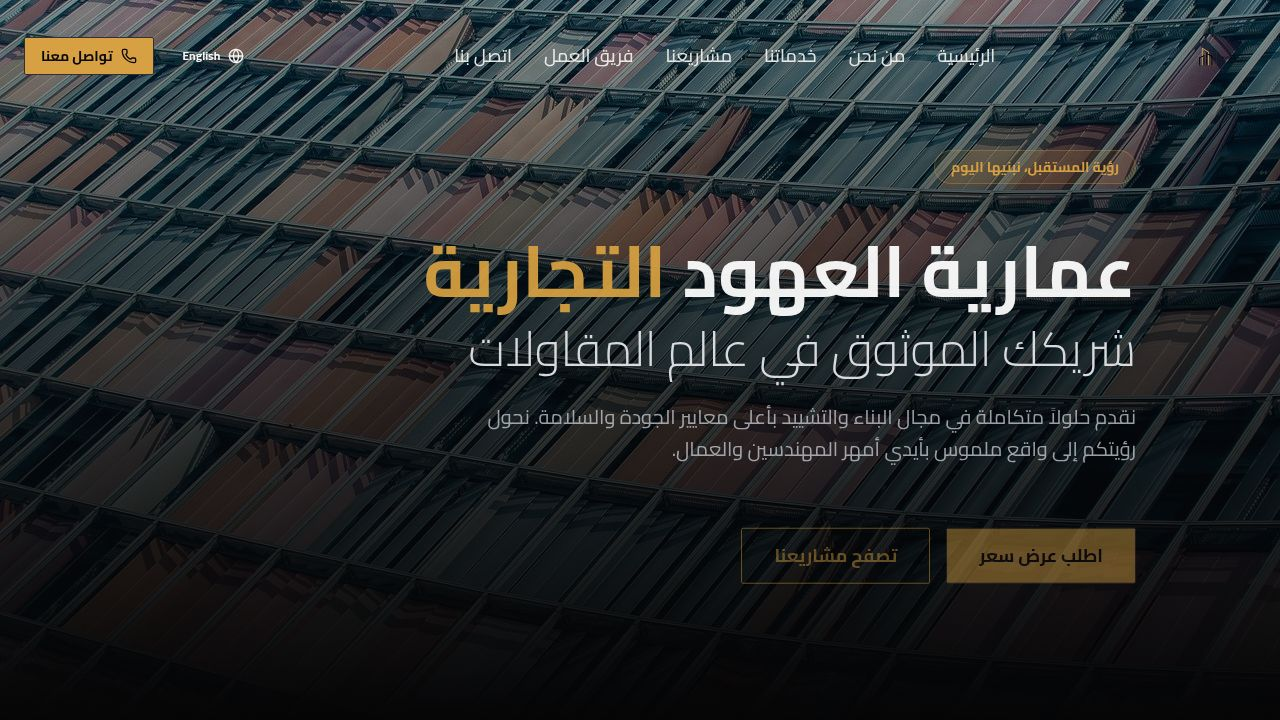
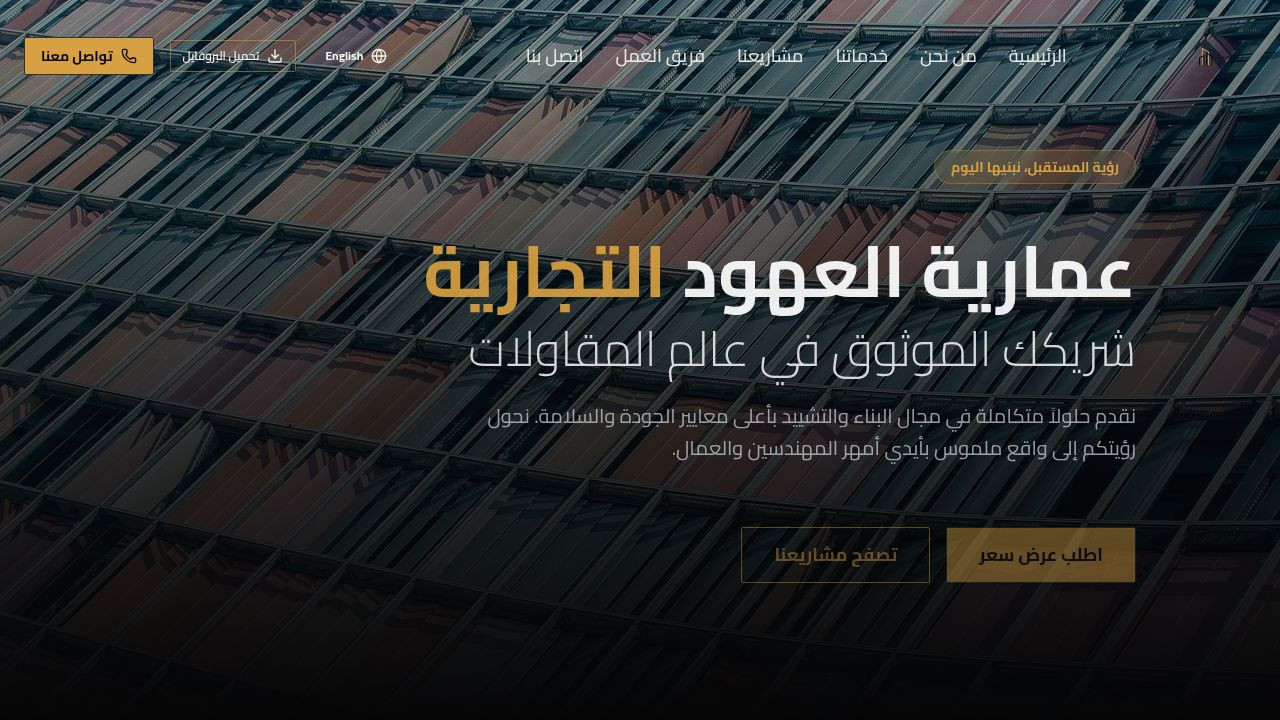
Add ability to download the homepage as a company profile PDF
Adds `html2canvas` and `jspdf` dependencies, a "Download Profile" button to the Navbar, and a translation key for the button text. The button triggers a function to convert the current page into a PDF and download it.

Replit-Commit-Author: Agent
Replit-Commit-Session-Id: ab91905b-dc68-4074-858b-e6f5ec65a023
Replit-Commit-Checkpoint-Type: full_checkpoint
Replit-Commit-Event-Id: 5b88438b-7357-4f75-86d3-2ad259f0ce1a
Replit-Commit-Screenshot-Url: https://storage.googleapis.com/screenshot-production-us-central1/d3a5dc82-f05b-4e55-bc7f-5faa2f4ff8f8/ab91905b-dc68-4074-858b-e6f5ec65a023/1hrhwKy
Replit-Helium-Checkpoint-Created: true

diff --git a/client/src/components/Navbar.tsx b/client/src/components/Navbar.tsx
@@ -1,14 +1,17 @@
 import { useState, useEffect } from "react";
 import { Link } from "wouter";
-import { Menu, X, Phone, Globe } from "lucide-react";
+import { Menu, X, Phone, Globe, Download, Loader2 } from "lucide-react";
 import { Button } from "@/components/ui/button";
 import { cn } from "@/lib/utils";
 import logo from "@assets/عمارية_العهود_(2)_1764834256699.png";
 import { useLanguage } from "@/lib/language-context";
+import html2canvas from "html2canvas";
+import jsPDF from "jspdf";
 
 export default function Navbar() {
   const [isScrolled, setIsScrolled] = useState(false);
   const [mobileMenuOpen, setMobileMenuOpen] = useState(false);
+  const [isGeneratingPDF, setIsGeneratingPDF] = useState(false);
   const { language, setLanguage, t } = useLanguage();
 
   useEffect(() => {
@@ -30,6 +33,49 @@ export default function Navbar() {
 
   const toggleLanguage = () => {
     setLanguage(language === 'ar' ? 'en' : 'ar');
+  };
+
+  const handleDownloadPDF = async () => {
+    setIsGeneratingPDF(true);
+    try {
+      const element = document.body;
+      const canvas = await html2canvas(element, {
+        scale: 2, // Higher resolution
+        useCORS: true, // For cross-origin images
+        logging: false,
+        windowWidth: element.scrollWidth,
+        windowHeight: element.scrollHeight
+      });
+
+      const imgData = canvas.toDataURL("image/png");
+      const pdf = new jsPDF({
+        orientation: "portrait",
+        unit: "mm",
+        format: "a4",
+      });
+
+      const imgWidth = 210; // A4 width in mm
+      const pageHeight = 297; // A4 height in mm
+      const imgHeight = (canvas.height * imgWidth) / canvas.width;
+      let heightLeft = imgHeight;
+      let position = 0;
+
+      pdf.addImage(imgData, "PNG", 0, position, imgWidth, imgHeight);
+      heightLeft -= pageHeight;
+
+      while (heightLeft >= 0) {
+        position = heightLeft - imgHeight;
+        pdf.addPage();
+        pdf.addImage(imgData, "PNG", 0, position, imgWidth, imgHeight);
+        heightLeft -= pageHeight;
+      }
+
+      pdf.save("Amariah-Al-Ohood-Profile.pdf");
+    } catch (error) {
+      console.error("PDF Generation Error:", error);
+    } finally {
+      setIsGeneratingPDF(false);
+    }
   };
 
   return (
@@ -73,6 +119,21 @@ export default function Navbar() {
             <span className="font-bold">{language === 'ar' ? 'English' : 'العربية'}</span>
           </Button>
 
+          <Button
+            variant="outline"
+            size="sm"
+            onClick={handleDownloadPDF}
+            disabled={isGeneratingPDF}
+            className="border-primary/50 text-foreground hover:bg-primary/10 gap-2 hidden lg:flex"
+          >
+            {isGeneratingPDF ? (
+              <Loader2 className="h-4 w-4 animate-spin" />
+            ) : (
+              <Download className="h-4 w-4" />
+            )}
+            {t('nav_download_profile')}
+          </Button>
+
           <Button className="bg-primary hover:bg-primary/90 text-primary-foreground font-bold gap-2" asChild>
             <a href="#contact">
               <Phone className="h-4 w-4" />
@@ -114,7 +175,20 @@ export default function Navbar() {
               {link.name}
             </a>
           ))}
-          <Button className="w-full mt-4" asChild>
+          <Button 
+            variant="outline" 
+            className="w-full mt-2 border-primary/50" 
+            onClick={handleDownloadPDF}
+            disabled={isGeneratingPDF}
+          >
+            {isGeneratingPDF ? (
+              <Loader2 className="h-4 w-4 animate-spin ml-2" />
+            ) : (
+              <Download className="h-4 w-4 ml-2" />
+            )}
+            {t('nav_download_profile')}
+          </Button>
+          <Button className="w-full mt-2" asChild>
             <a href="#contact">{t('nav_cta')}</a>
           </Button>
         </div>

diff --git a/client/src/lib/language-context.tsx b/client/src/lib/language-context.tsx
@@ -19,6 +19,7 @@ const translations: Record<string, Record<string, string>> = {
     nav_team: "فريق العمل",
     nav_contact: "اتصل بنا",
     nav_cta: "تواصل معنا",
+    nav_download_profile: "تحميل البروفايل",
     
     // Hero
     hero_badge: "رؤية المستقبل، نبنيها اليوم",
@@ -117,6 +118,7 @@ const translations: Record<string, Record<string, string>> = {
     nav_team: "Team",
     nav_contact: "Contact",
     nav_cta: "Contact Us",
+    nav_download_profile: "Download Profile",
 
     // Hero
     hero_badge: "Building the Future Today",
